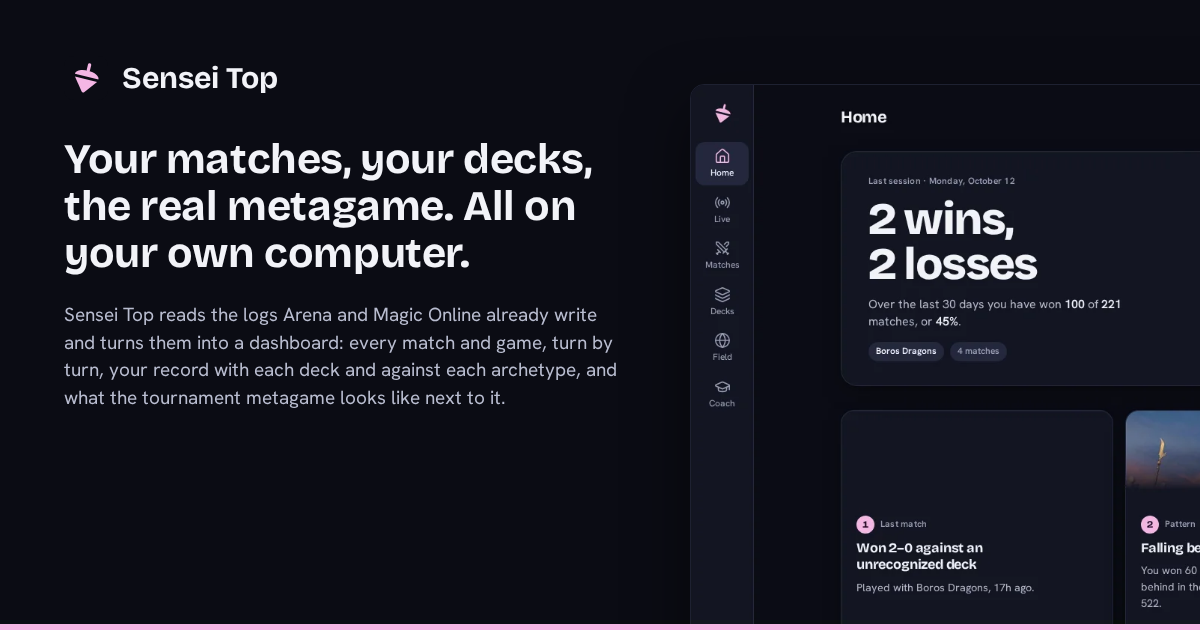
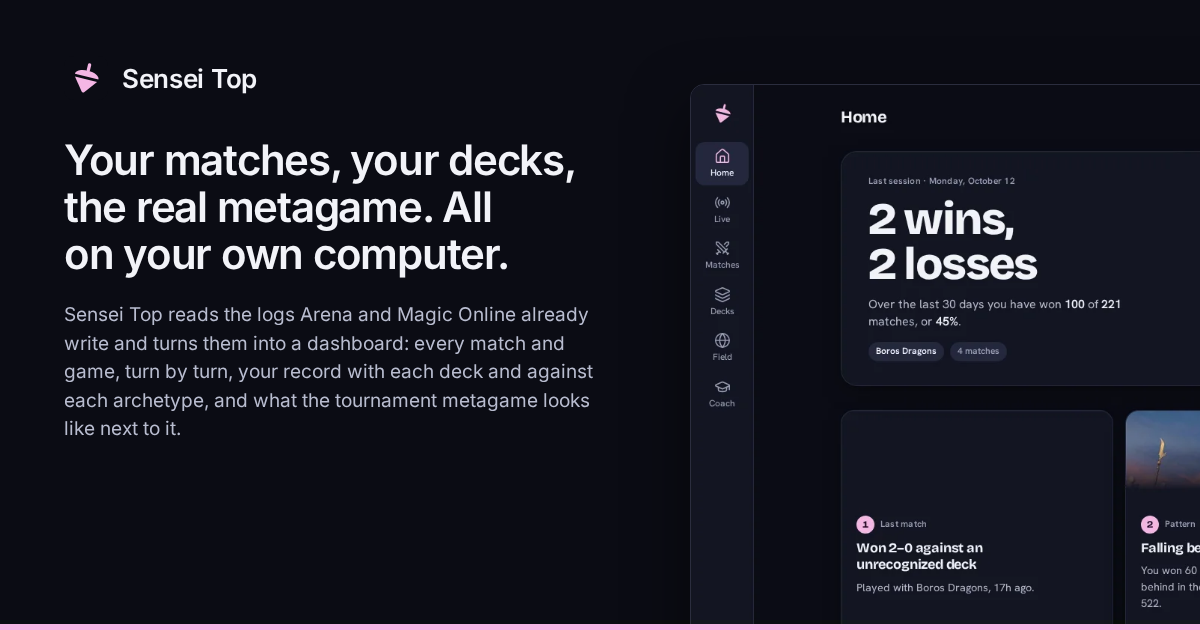
feat(site): redo the social cards in Inter, move the old fonts out
The cards take the site's Inter and tokens, with title and lead unchanged.
Bricolage Grotesque and Hanken Grotesk leave site/fonts/ for
scripts/demo-video/cards/fonts/ with their licences, since only the
LinkedIn cut's title cards still load them, so the site now ships one
family.

Changed region(s): [[0.0308, 0.4825, 0.5242, 0.6937], [0.0308, 0.2111, 0.4933, 0.4524], [0.0925, 0.0905, 0.2467, 0.1508]]

diff --git a/web/scripts/og-card.html b/web/scripts/og-card.html
@@ -7,39 +7,27 @@
   The 1200x630 card a link to the site unfurls into (plan 21, D13). Not a
   page of the site: `site-images.mjs` opens it by file URL in a browser,
   fills the three `data-slot` elements and the screenshot from its
-  language table, and photographs it to `og.png`. The fonts are the site's
-  own, from site/fonts/, and the colours are site.css's custom properties
+  language table, and photographs it to `og.png`. The font is the site's
+  own Inter, from site/fonts/, and the colours are site.css's custom properties
   copied by hand, as site/img/mark.svg does.
 -->
 <style>
 @font-face {
-  font-family: "Bricolage Grotesque Variable";
-  font-weight: 200 800;
-  src: url(../../site/fonts/bricolage-grotesque-latin-ext-wght-normal.woff2) format("woff2-variations");
+  font-family: "Inter Variable";
+  font-weight: 100 900;
+  src: url(../../site/fonts/inter-latin-ext-wght-normal.woff2) format("woff2-variations");
   unicode-range: U+0100-02BA, U+02BD-02C5, U+02C7-02CC, U+02CE-02D7, U+02DD-02FF, U+0304, U+0308, U+0329, U+1D00-1DBF, U+1E00-1E9F, U+1EF2-1EFF, U+2020, U+20A0-20AB, U+20AD-20C0, U+2113, U+2C60-2C7F, U+A720-A7FF;
 }
 @font-face {
-  font-family: "Bricolage Grotesque Variable";
-  font-weight: 200 800;
-  src: url(../../site/fonts/bricolage-grotesque-latin-wght-normal.woff2) format("woff2-variations");
-  unicode-range: U+0000-00FF, U+0131, U+0152-0153, U+02BB-02BC, U+02C6, U+02DA, U+02DC, U+0304, U+0308, U+0329, U+2000-206F, U+20AC, U+2122, U+2191, U+2193, U+2212, U+2215, U+FEFF, U+FFFD;
-}
-@font-face {
-  font-family: "Hanken Grotesk Variable";
+  font-family: "Inter Variable";
   font-weight: 100 900;
-  src: url(../../site/fonts/hanken-grotesk-latin-ext-wght-normal.woff2) format("woff2-variations");
-  unicode-range: U+0100-02BA, U+02BD-02C5, U+02C7-02CC, U+02CE-02D7, U+02DD-02FF, U+0304, U+0308, U+0329, U+1D00-1DBF, U+1E00-1E9F, U+1EF2-1EFF, U+2020, U+20A0-20AB, U+20AD-20C0, U+2113, U+2C60-2C7F, U+A720-A7FF;
-}
-@font-face {
-  font-family: "Hanken Grotesk Variable";
-  font-weight: 100 900;
-  src: url(../../site/fonts/hanken-grotesk-latin-wght-normal.woff2) format("woff2-variations");
+  src: url(../../site/fonts/inter-latin-wght-normal.woff2) format("woff2-variations");
   unicode-range: U+0000-00FF, U+0131, U+0152-0153, U+02BB-02BC, U+02C6, U+02DA, U+02DC, U+0304, U+0308, U+0329, U+2000-206F, U+20AC, U+2122, U+2191, U+2193, U+2212, U+2215, U+FEFF, U+FFFD;
 }
 
 :root {
   --plane: #0b0c14;
-  --edge: rgb(150 160 230 / 0.14);
+  --edge: rgb(190 198 255 / 0.18);
   --ink: #f2f3f8;
   --ink-2: #b9bdd0;
   --accent: #f4b6e4;
@@ -56,7 +44,7 @@ body {
   overflow: hidden;
   background: var(--plane);
   color: var(--ink);
-  font-family: "Hanken Grotesk Variable", "Segoe UI", system-ui, sans-serif;
+  font-family: "Inter Variable", "Segoe UI", system-ui, sans-serif;
 }
 
 .copy {
@@ -71,27 +59,30 @@ body {
   align-items: center;
   gap: 14px;
   margin-bottom: 36px;
-  font-family: "Bricolage Grotesque Variable", "Segoe UI", system-ui, sans-serif;
-  font-size: 30px;
-  font-weight: 700;
+  font-family: "Inter Variable", "Segoe UI", system-ui, sans-serif;
+  font-size: 26px;
+  font-weight: 600;
+  letter-spacing: -0.012em;
 }
 
 .brand img { width: 44px; height: 44px; }
 
 h1 {
   margin: 0 0 24px;
-  font-family: "Bricolage Grotesque Variable", "Segoe UI", system-ui, sans-serif;
+  font-family: "Inter Variable", "Segoe UI", system-ui, sans-serif;
   font-size: 42px;
-  font-weight: 700;
+  font-weight: 600;
   line-height: 1.12;
-  letter-spacing: -0.01em;
+  letter-spacing: -0.03em;
+  text-wrap: balance;
 }
 
 .lead {
   margin: 0;
   color: var(--ink-2);
   font-size: 19px;
-  line-height: 1.45;
+  line-height: 1.5;
+  font-feature-settings: "cv11", "ss03";
 }
 
 /* A slice of the Home page, its left edge flush with the card's right half

diff --git a/scripts/demo-video/cards/card.css b/scripts/demo-video/cards/card.css
@@ -1,15 +1,15 @@
-/* The demo video's cards: the dashboard's fonts and colours, from site/fonts
-   and web/scripts/og-card.html's custom properties. 1920x1080, with the bottom
+/* The demo video's cards: the dashboard's fonts, kept in fonts/ beside this
+   file, and the site's colours (site/site.css). 1920x1080, with the bottom
    band left clear for the burned-in caption. */
 @font-face {
   font-family: "Bricolage Grotesque Variable";
   font-weight: 200 800;
-  src: url(../../../site/fonts/bricolage-grotesque-latin-wght-normal.woff2) format("woff2-variations");
+  src: url(fonts/bricolage-grotesque-latin-wght-normal.woff2) format("woff2-variations");
 }
 @font-face {
   font-family: "Hanken Grotesk Variable";
   font-weight: 100 900;
-  src: url(../../../site/fonts/hanken-grotesk-latin-wght-normal.woff2) format("woff2-variations");
+  src: url(fonts/hanken-grotesk-latin-wght-normal.woff2) format("woff2-variations");
 }
 :root {
   --plane: #0b0c14;

diff --git a/tests/test_site.py b/tests/test_site.py
@@ -641,19 +641,11 @@ def test_the_stylesheet_loads_nothing_from_elsewhere_and_uses_only_the_two_subse
         "inter-latin-ext-wght-normal.woff2",
         "inter-latin-wght-normal.woff2",
     ]
-    # The other four are for the social card and the demo-video title cards
-    # until the cards are redone. No page or stylesheet of the site loads them.
-    assert fonts == [
-        "bricolage-grotesque-latin-ext-wght-normal.woff2",
-        "bricolage-grotesque-latin-wght-normal.woff2",
-        "hanken-grotesk-latin-ext-wght-normal.woff2",
-        "hanken-grotesk-latin-wght-normal.woff2",
-        *subsets,
-    ]
+    assert fonts == subsets
     assert sorted(set(re.findall(r"fonts/([\w.-]+\.woff2)", css))) == subsets
-    for family in ("inter", "bricolage-grotesque", "hanken-grotesk"):
-        licence = (SITE / "fonts" / f"LICENSE-{family}.txt").read_text(encoding="utf-8")
-        assert "SIL OPEN FONT LICENSE" in licence.upper()
+    assert sorted(p.name for p in (SITE / "fonts").glob("LICENSE-*")) == ["LICENSE-inter.txt"]
+    licence = (SITE / "fonts" / "LICENSE-inter.txt").read_text(encoding="utf-8")
+    assert "SIL OPEN FONT LICENSE" in licence.upper()
 
 
 @pytest.mark.parametrize("url_path", SHELL_PAGES)

diff --git a/docs/frontend-site.md b/docs/frontend-site.md
@@ -14,9 +14,8 @@ landings only. It is not part of `web/` and shares
 nothing with it at build time: the palette and the mark are
 copied by hand, and the site's one font, Inter, is its own, not one of the dashboard's (the hexes in `site.css` follow "Palette" in
 [design-system.md](design-system.md); `fonts/` holds Inter's latin and latin-ext
-subsets with their OFL text, and the two old fonts, which no page or
-stylesheet here loads: they stay only for `web/scripts/og-card.html` and
-`scripts/demo-video/cards/card.css`, until the social cards are redone;
+subsets with their OFL text, and nothing else (the social card uses Inter too; the
+dashboard's two fonts live in `scripts/demo-video/cards/fonts/`, for the title cards only);
 `img/` the landing's pictures, captured from the demo database (below) and
 never from `docs/images/`: six dashboard pages as WebP (`home`, `live`,
 `match-report`, `matchups`, `field`, `coach`), the Portuguese captures of
